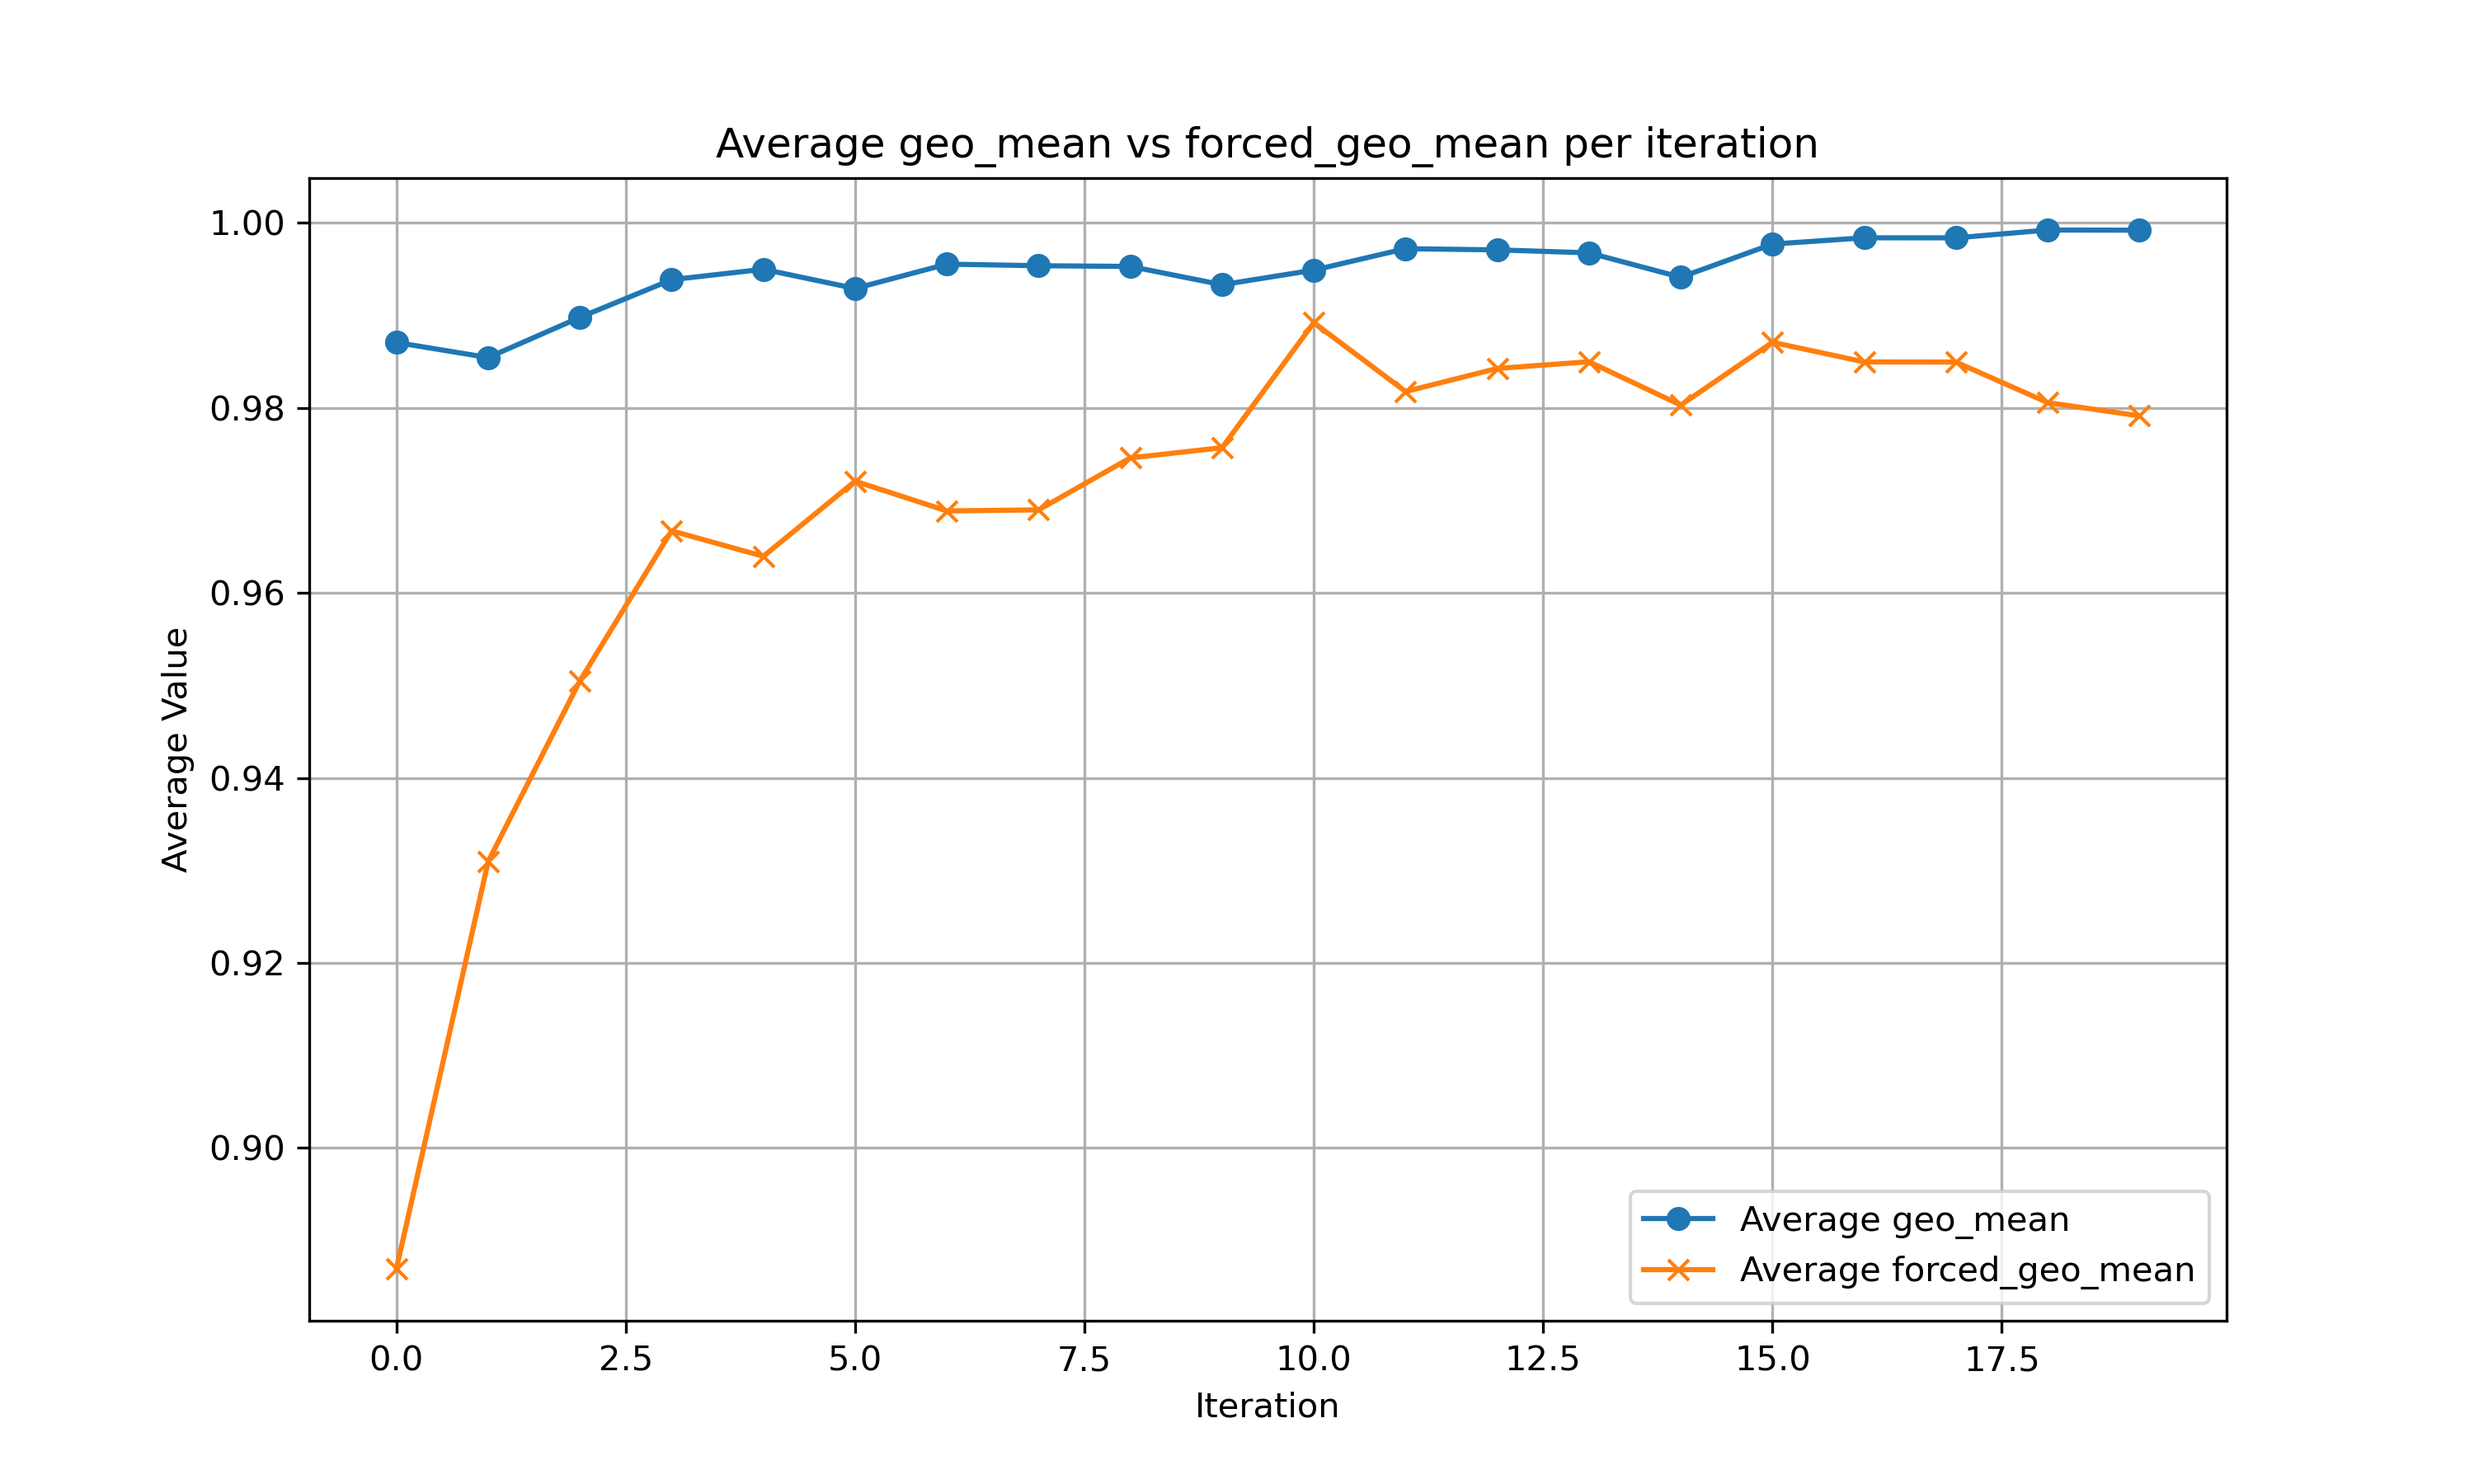
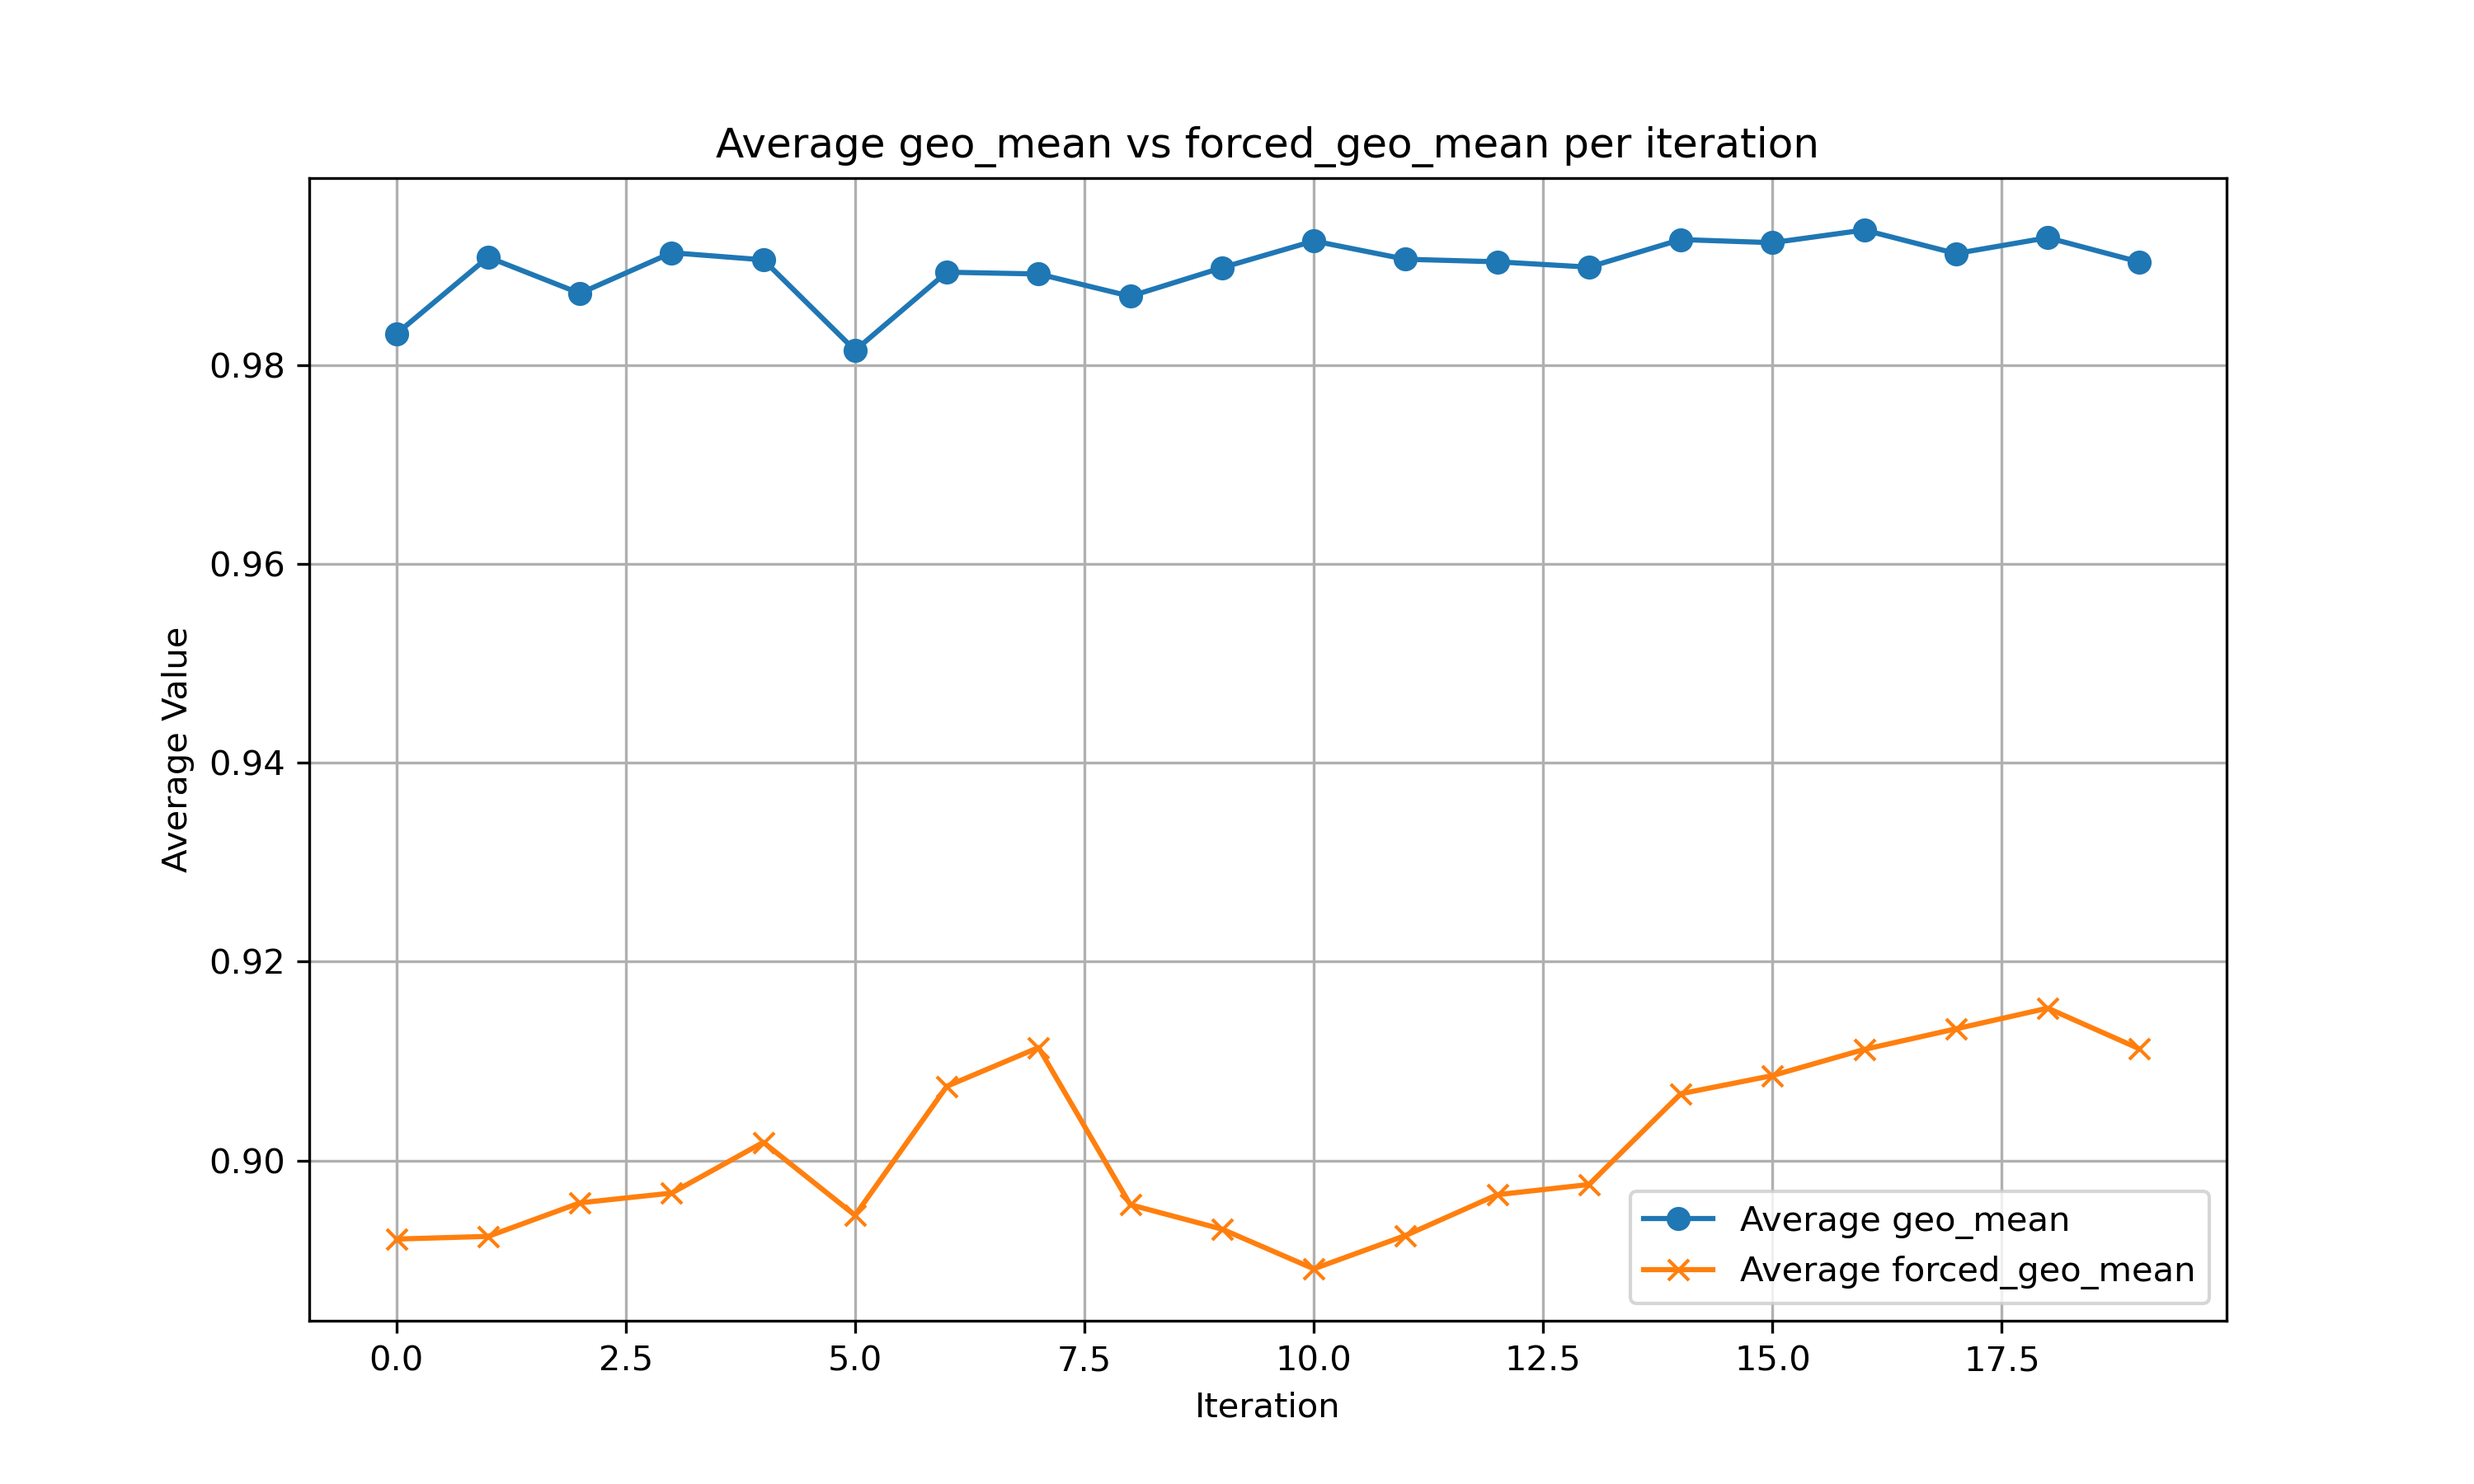
fix logic based on paper

diff --git a/active_label_correction.py b/active_label_correction.py
@@ -46,10 +46,12 @@ class ALCPipeline:
 
         # Determine base model path
         base_model = 'openai-community/gpt2'
-        if self.current_iteration > 0:
-            prev_model = self.models_dir / f"iteration_{self.current_iteration - 1}"
-            if prev_model.exists():
-                base_model = str(prev_model)
+
+        # do not retrain previously trained model. always use the same gpt2 model
+        # if self.current_iteration > 0:
+        #     prev_model = self.models_dir / f"iteration_{self.current_iteration - 1}"
+        #     if prev_model.exists():
+        #         base_model = str(prev_model)
 
         output_model = self.models_dir / f"iteration_{self.current_iteration}"
 
@@ -134,10 +136,29 @@ class ALCPipeline:
         if not rows:
             return None
 
-        # Sort by geo_mean (ascending)
-        sorted_rows = sorted(rows, key=lambda r: r.get("geo_mean", 0), reverse=False)
+        # Sort by geo_mean (desc)
+        sorted_rows = sorted(rows, key=lambda r: r.get("geo_mean", 0), reverse=True)
 
         output_path = self.alc_dir / f"iteration_{self.current_iteration}_step_3_geo_mean_sorted.json"
+        self.write_json_rows(sorted_rows, output_path)
+
+        print(f"✓ Sorting completed.")
+        return output_path
+
+    def run_sorting_by_forced(self, prob_file: Path) -> Optional[Path]:
+        """
+        Sort the probability file by confidence metrics and return the output path.
+        """
+        print(f"🔄 Sorting probability file by confidence (iteration {self.current_iteration})...")
+
+        rows = self.load_json_rows(prob_file)
+        if not rows:
+            return None
+
+        # Sort by forced geo_mean (asc)
+        sorted_rows = sorted(rows, key=lambda r: r.get("forced_geo_mean", 0), reverse=False)
+
+        output_path = self.alc_dir / f"iteration_{self.current_iteration}_step_5_forced_geo_mean_sorted.json"
         self.write_json_rows(sorted_rows, output_path)
 
         print(f"✓ Sorting completed.")
@@ -155,15 +176,13 @@ class ALCPipeline:
 
         rows_corrected = 0
         # Iterate through rows to find and apply human annotations
-        # ALC Strategy: Correct only the most confident incorrect prediction.
-        # The file is sorted by geo_mean (ascending), so we find the first incorrect row.
+        # ALC Strategy: For the most confident model prediction, use them for training instead of the original completion.
         for row in rows:
-            matchesCompletion = row.get('matches_completion')
-            humanCorrected = row.get('human_corrected_iteration')
+            geo_mean = row.get("geo_mean", 0)
+            if geo_mean <= 0.998229: # hardcoded delta value. only auto-correct if model is really confident.
+                break
 
-            if matchesCompletion:
-                print("Skip auto correct because inference matches completion")
-                continue
+            humanCorrected = row.get('human_corrected_iteration')
 
             if humanCorrected is not None:
                 print("Skip auto correct because it is already human annotated")
@@ -174,7 +193,6 @@ class ALCPipeline:
 
             row["autocorrected_iterations"].append(self.current_iteration)
             rows_corrected += 1
-            break  # Stop after correcting the first one
 
         output_path = self.alc_dir / f"iteration_{self.current_iteration}_step_4_autocorrected.json"
         self.write_json_rows(rows, output_path)
@@ -215,11 +233,13 @@ class ALCPipeline:
                 row[f'human_corrected_iteration'] = self.current_iteration
                 rows_corrected += 1
                 print(f"✓ Applied human correction to row {row.get('id', 'N/A')}")
+
+            if rows_corrected == 2:
                 break
 
         print(f"✓ Total human corrections applied: {rows_corrected}")
 
-        output_path = self.alc_dir / f"iteration_{self.current_iteration}_step_5_human_annotated.json"
+        output_path = self.alc_dir / f"iteration_{self.current_iteration}_step_6_human_annotated.json"
         self.write_json_rows(rows, output_path)
 
         print(f"✓ Human annotation step completed.")
@@ -261,7 +281,7 @@ class ALCPipeline:
 
         print(f"✓ Total human corrections applied: {rows_filtered}")
 
-        output_path = self.alc_dir / f"iteration_{self.current_iteration}_step_6_filtered.json"
+        output_path = self.alc_dir / f"iteration_{self.current_iteration}_step_7_filtered.json"
         self.write_json_rows(rows, output_path)
 
         print(f"✓ filter step completed.")
@@ -306,15 +326,19 @@ class ALCPipeline:
             autocorrected_file = self.run_auto_correction(sorted_file)
             if not autocorrected_file: return None
 
-            # Step 5: Apply human annotations
-            human_annotated_file = self.run_human_annotation(autocorrected_file)
+            # Step 5: Sort again by forced geo mean, ascending
+            sorted_file_forced_geomean = self.run_sorting_by_forced(autocorrected_file)
+            if not sorted_file_forced_geomean: return None
+
+            # Step 6: Apply human annotations
+            human_annotated_file = self.run_human_annotation(sorted_file_forced_geomean)
             if not human_annotated_file: return None
 
-            # Step 6: Apply filter for next iteration
+            # Step 7: Apply filter for next iteration
             filtered_file = self.run_filter(human_annotated_file)
             if not filtered_file: return None
 
-            # Step 7: Create dataset for the next iteration
+            # Step 8: Create dataset for the next iteration
             next_dataset = self.create_next_dataset(filtered_file)
             if not next_dataset: return None
 
